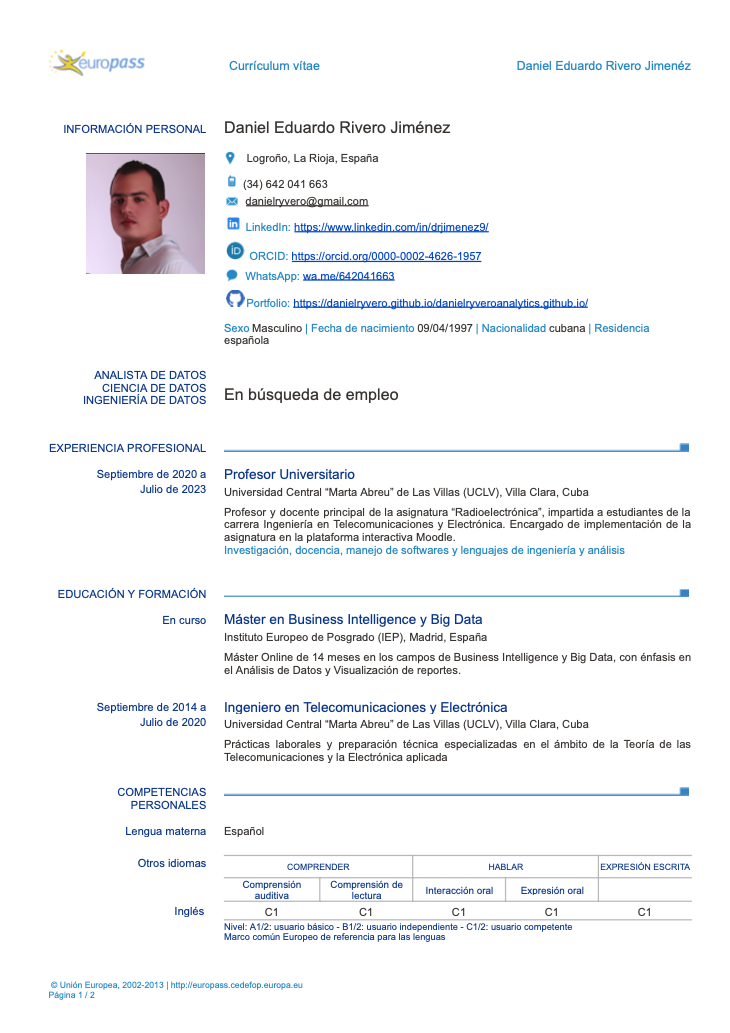
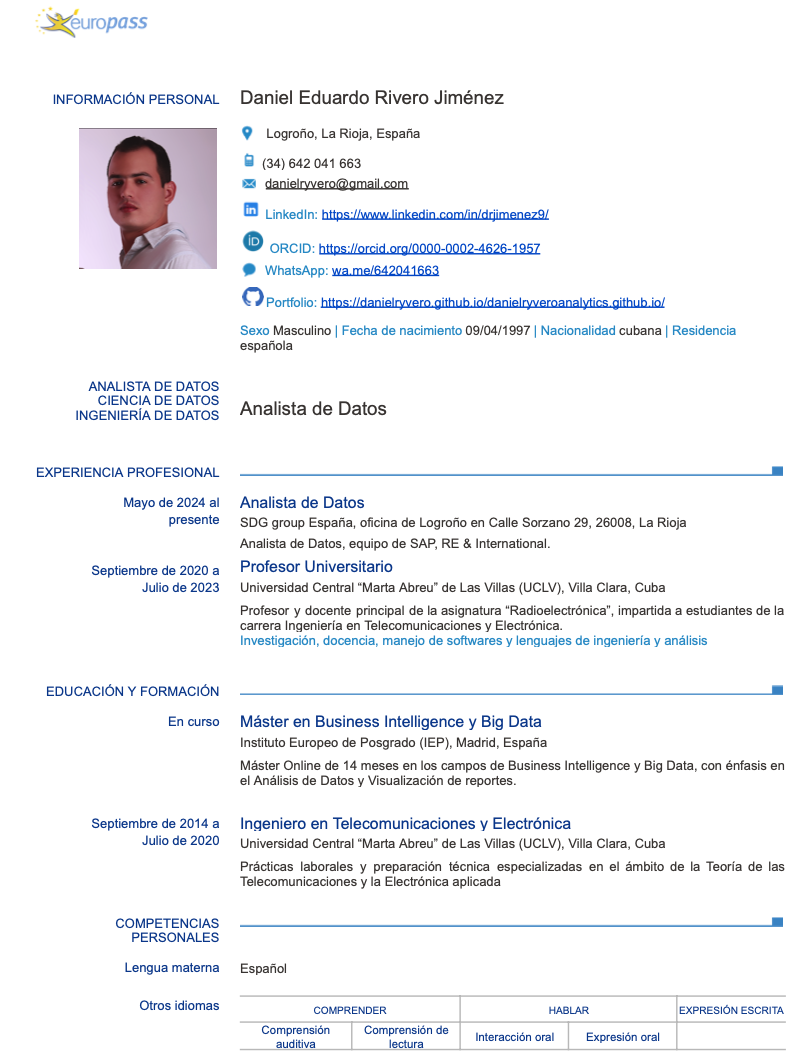
updating CV and link

diff --git a/index.html b/index.html
@@ -201,7 +201,7 @@
 		
 											<p>Resume</p>
 											
-											<span><a href="https://drive.google.com/file/d/1_GW9RgIX7j_UjVtFkjPn7W2ifHJ6Vu9u/view?usp=sharing" class="button icon solid fa-download">Download CV</a></span>
+											<span><a href="https://drive.google.com/file/d/1-f2tzjEe0Y9o44RtYtOwbF7A_YTcGE7L/view?usp=sharing" class="button icon solid fa-download">Download CV</a></span>
 		
 										</header>
 										<div class="image main"><img src="images/cv_p_1.png" alt="CV" /></div>
@@ -229,7 +229,8 @@
 										<blockquote>As Analyst at SDG group, I have received a strong preparation 
 											in several specifics of the Data Analyst job, Bootcamps and hours of
 											dedication have prepared me to better grasp the needs of the IT world
-											from a business perspective
+											from a business perspective. Improving my skills in SAP BW is my current 
+											challenge in the Company.
 										</blockquote>
 
 										<!-- Image -->
